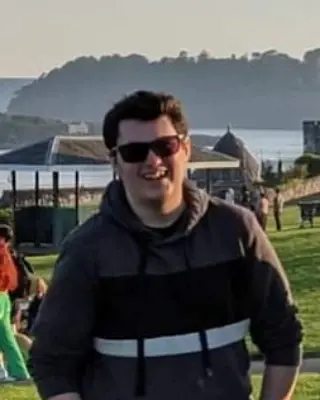
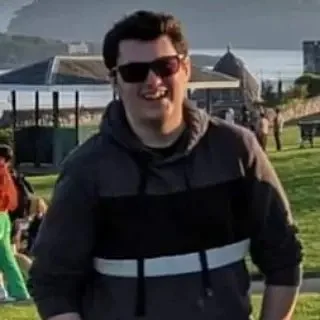
Improved profile image slightly

diff --git a/resources/views/portfolio.blade.php b/resources/views/portfolio.blade.php
@@ -38,7 +38,7 @@
         <header class="masthead bg-primary text-white text-center">
             <div class="container d-flex align-items-center flex-column">
                 <!-- Masthead Avatar Image-->
-                <img class="img-fluid mb-5 rounded" src="{{ asset('assets/img/profile.webp') }}" alt="..." />
+                <img class="mb-5 rounded-circle" width="320px" height="320px" src="{{ asset('assets/img/profile.webp') }}" alt="..." />
                 <!-- Masthead Heading-->
                 <h1 class="masthead-heading text-uppercase mb-0">Evan Ward</h1>
                 <!-- Icon Divider-->
